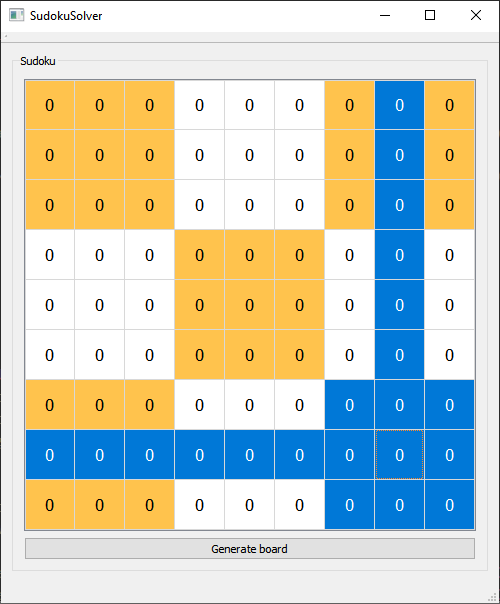
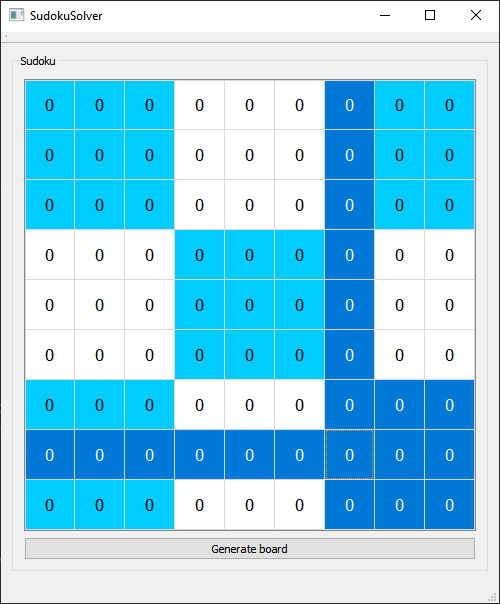
Changed the background color.

diff --git a/sudokuboard.h b/sudokuboard.h
@@ -9,7 +9,7 @@
 #define SUDOKU_BOARD_SIDE 9
 #define SUDOKU_CELL_SIZE 50
 
-#define PRIMARY_COLOR qRgb(255, 195, 77)
+#define PRIMARY_COLOR qRgb(0, 204, 255)
 #define SECONDARY_COLOR qRgb(255, 255, 255)
 
 typedef unsigned char val;
